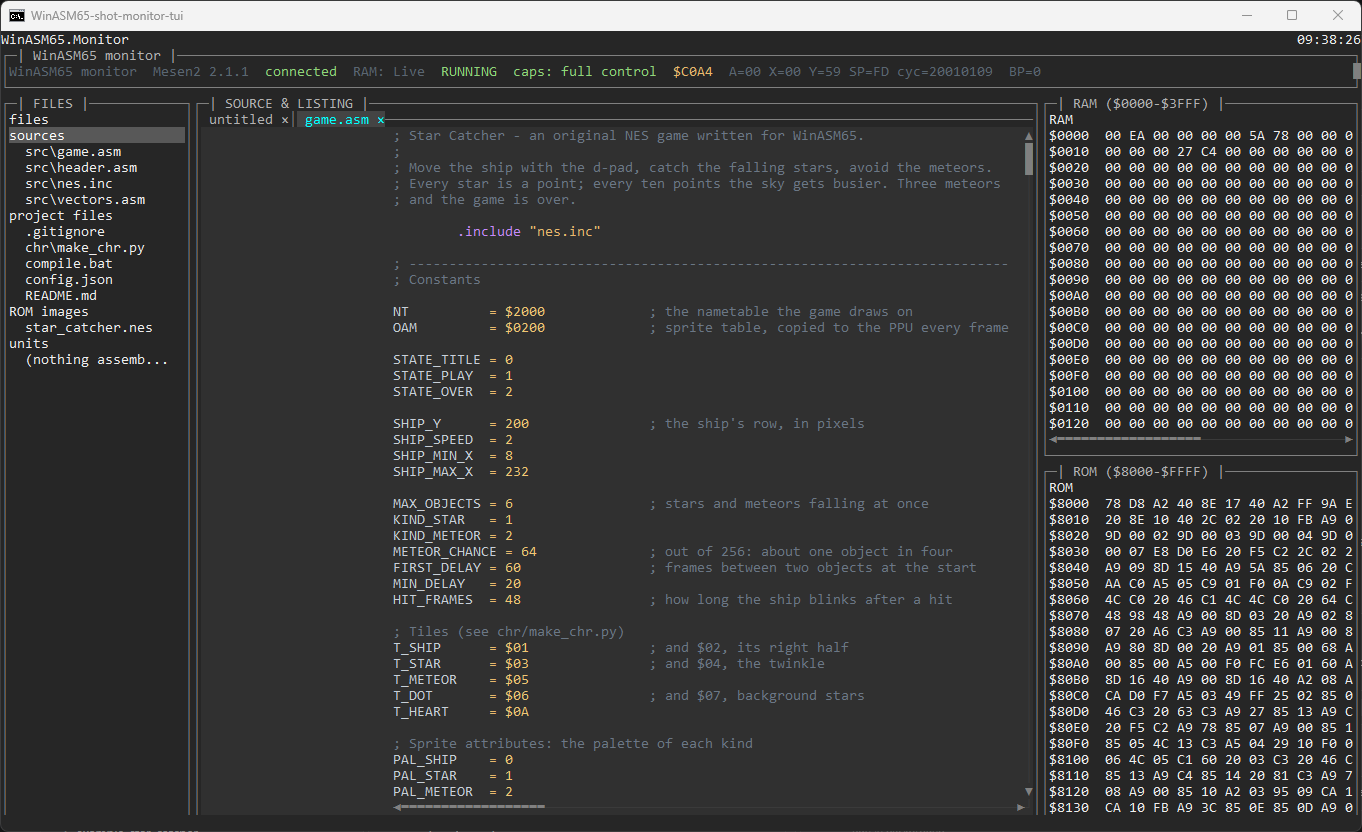
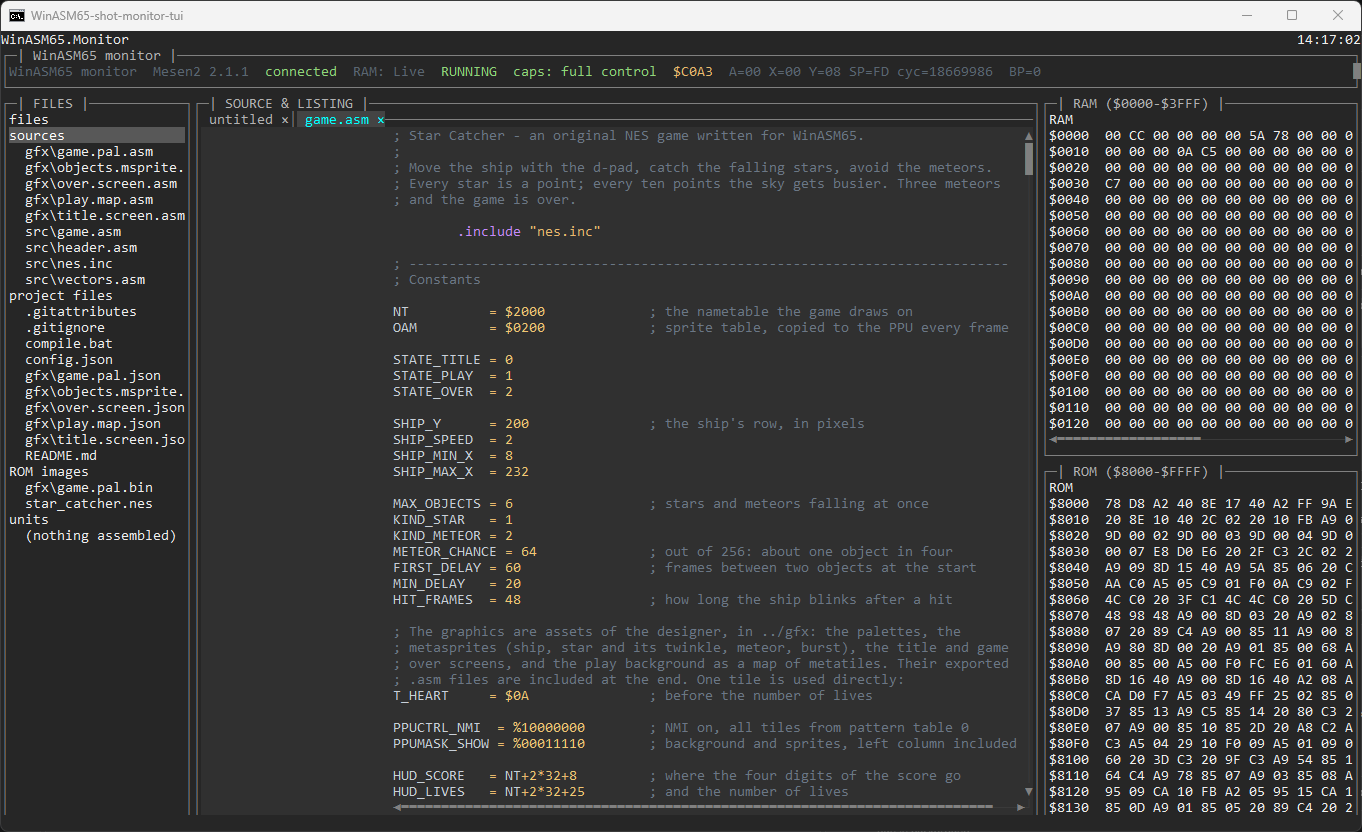
release: WinASM65 extension 0.4.0, README for the designer and the MCP server
The extension ships the MCP server with the NES knowledge base. The README
describes the generic debugger, the Graphics Designer and the AI tools; the
monitor's picture is retaken connected to Mesen2.

diff --git a/docs/site/monitor.html b/docs/site/monitor.html
@@ -39,7 +39,7 @@
     </aside>
 
     <figure class="shot">
-      <a href="img/monitor-tui.png"><img src="img/monitor-tui.png" alt="The terminal monitor on Star Catcher, connected to Mesen2 2.1.1: the status line (connected, RAM: Live, RUNNING, caps: full control, $C0A4, A=00 X=00 Y=59 SP=FD), the file tree with the project's sources (src\game.asm, src\header.asm, src\nes.inc, src\vectors.asm), config.json and star_catcher.nes, game.asm open at its constants, and the RAM and ROM panes"></a>
+      <a href="img/monitor-tui.png"><img src="img/monitor-tui.png" alt="The terminal monitor on Star Catcher, connected to Mesen2 2.1.1: the status line (connected, RAM: Live, RUNNING, caps: full control, $C0A3, A=00 X=00 Y=08 SP=FD), the file tree with the sources (the exported gfx\*.asm, src\game.asm, src\header.asm, src\nes.inc, src\vectors.asm), the project files (config.json, compile.bat, the gfx assets) and the ROM images gfx\game.pal.bin and star_catcher.nes, game.asm open at its constants, and the RAM and ROM panes"></a>
       <figcaption>The monitor on the example game, <a href="example.html">Star Catcher</a>, started with <code>--emulator mesen2</code> and <code>--source src/game.asm</code>. The status line reads: host <code>Mesen2 2.1.1</code>, <code>connected</code>, <code>RAM: Live</code> (the bridge is pushing RAM changes), <code>RUNNING</code>, <code>caps: full control</code>, then the program counter, the registers, the cycle count and the breakpoint count. Below: the file tree, the source with its listing gutter (address, bytes, cycles), and the RAM ($0000–$3FFF) and ROM ($8000–$FFFF) panes. The game's 16 KB of program are mirrored at <code>$8000</code> and <code>$C000</code>, so the ROM pane starts with the first bytes of <code>RESET</code> (<code>78 D8 A2 40</code>: <code>sei</code>, <code>cld</code>, <code>ldx #$40</code>).</figcaption>
     </figure>
 

diff --git a/docs/site/vscode.html b/docs/site/vscode.html
@@ -44,8 +44,8 @@
 <pre><code>cd vscode-extension
 npm install
 npm run package
-code --install-extension winasm65-win32-x64-0.3.2.vsix --force</code></pre>
-    <p>The version in the file name is the <code>version</code> of <code>package.json</code> (0.3.2 at the time of writing). <code>--force</code> replaces an installed copy of the same version. What <code>npm run package</code> does is described in <a href="#package">Packaging</a>.</p>
+code --install-extension winasm65-win32-x64-0.4.0.vsix --force</code></pre>
+    <p>The version in the file name is the <code>version</code> of <code>package.json</code> (0.4.0 at the time of writing). <code>--force</code> replaces an installed copy of the same version. What <code>npm run package</code> does is described in <a href="#package">Packaging</a>.</p>
     <p>To debug you also need an emulator with a WinASM65 bridge: <strong>Mesen2 2.1.1</strong> for the NES, or another one configured in the project (see <a href="bridges.html">Emulator bridges</a>). Give its path in one of three places, read in this order:</p>
     <ol>
       <li><code>"emulatorPath"</code> in <code>launch.json</code>;</li>

diff --git a/README.md b/README.md
@@ -25,32 +25,35 @@ produces a standalone `WinASM65.exe` that runs without a .NET install.
 ## Monitor
 
 `WinASM65.Monitor` assembles a source, places it in a running emulator, reads it
-back, and places it again elsewhere without reassembling. See `docs/monitor.md`
-for the protocol, the measured limits of MesenCE 2.2.1, and the design decisions.
+back, and places it again elsewhere without reassembling. The emulator is any one
+with a bridge (Mesen2 and MesenCE are built in); see the documentation's Monitor
+and Emulator bridges pages.
 
 ```bash
-dotnet run --project WinASM65.Monitor -- --mesen "C:\...\Mesen.exe" --rom game.nes
+dotnet run --project WinASM65.Monitor -- --tui --emulator-path "C:\...\Mesen.exe" --rom game.nes
 ```
 
 ------------------------------
 ## VS Code
 
 `vscode-extension/` is a VS Code extension for WinASM65 projects:
-- Press F5 to build the project, start Mesen2 2.1.1, and debug in the sources: breakpoints, step, registers, and memory in the hex view.
-- Errors are reported as you type.
+- Press F5 to build the project, start the emulator `config.json` names (Mesen2 2.1.1 for the NES examples), and debug in the sources: breakpoints, step, registers, and the Memory panel, whose views (RAM, and on the NES the palettes, nametables, OAM and tiles) come from the machine.
+- Errors are reported as you type; hovers describe instructions and names, with their cycles.
 - A build task fills the Problems panel.
 - Sources get syntax highlighting.
+- AI agents in VS Code get the WinASM65 tools (below).
 
 The extension starts `WinASM65.Tooling` in one of these modes:
 - `--dap` for the debug adapter
 - `--lsp` for the language server
 - `--build <config.json>` for the build task
+- `--mcp` for the MCP server
 
 ```bash
 cd vscode-extension
 npm install
 npm run package        # publishes WinASM65.Tooling into bin/ and builds the .vsix
-code --install-extension winasm65-win32-x64-0.3.2.vsix
+code --install-extension winasm65-win32-x64-0.4.0.vsix
 ```
 
 To try the extension from the repository without packaging it, open `vscode-extension/` in VS Code and press F5. It uses the debug build of `WinASM65.Tooling`.
@@ -58,8 +61,36 @@ To try the extension from the repository without packaging it, open `vscode-exte
 Two scripts check the parts that only a real emulator can test. Close any open Mesen2 first, because it runs as a single instance:
 
 ```bash
-python tools/mesen2-bridge-check.py <Mesen.exe> example_bomberman-nes/bomber.nes C01A
+python tools/mesen2-bridge-check.py <Mesen.exe> example_star_catcher/star_catcher.nes C06E   # the NMI of the built game
 python tools/dap-smoke.py WinASM65.Tooling/bin/Debug/net8.0/WinASM65.Tooling.dll <config.json> <source> <line>
+```
+
+------------------------------
+## Graphics Designer
+
+`graphics-extension/` is a second extension, the WinASM65 Graphics Designer: tile
+sets, palettes, screens, metatile maps, metasprites and animations drawn in VS Code,
+exported as sources and binaries the assembler includes, shown in hovers of the
+code, and written live into the running game. `WinASM65.Designer` exports, renders
+and imports the same assets from the command line:
+
+```bash
+dotnet run --project WinASM65.Designer -- export example_star_catcher/gfx
+cd graphics-extension
+npm install
+npm run package        # publishes WinASM65.Designer into bin/ and builds the .vsix
+code --install-extension winasm65-graphics-win32-x64-0.1.0.vsix
+```
+
+------------------------------
+## AI assistants
+
+`WinASM65.Tooling --mcp` is a Model Context Protocol server: an assistant (Claude
+Code, VS Code's agents, Continue, Claude Desktop…) can build, assemble, debug in
+the emulator, read and write memory, and draw and export graphics with it.
+
+```bash
+claude mcp add winasm65 -- C:\...\WinASM65.Tooling.exe --mcp
 ```
 
 ------------------------------
